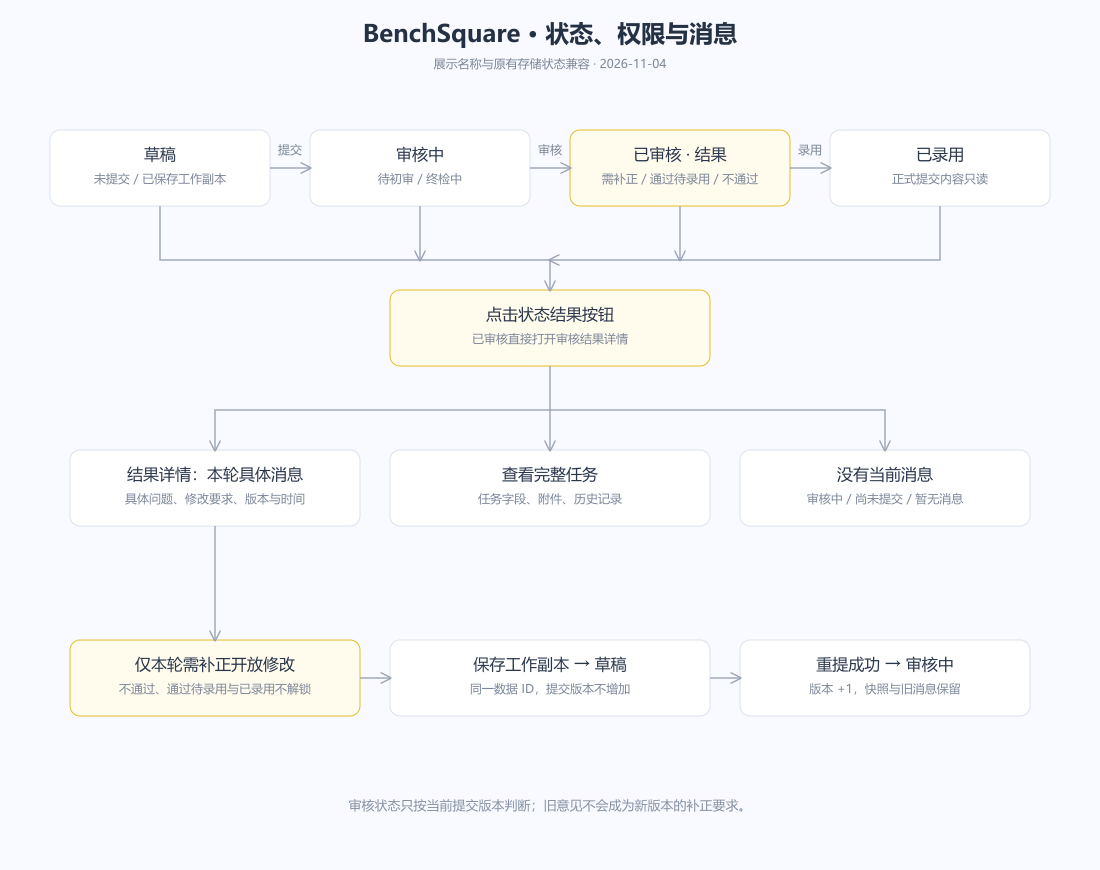
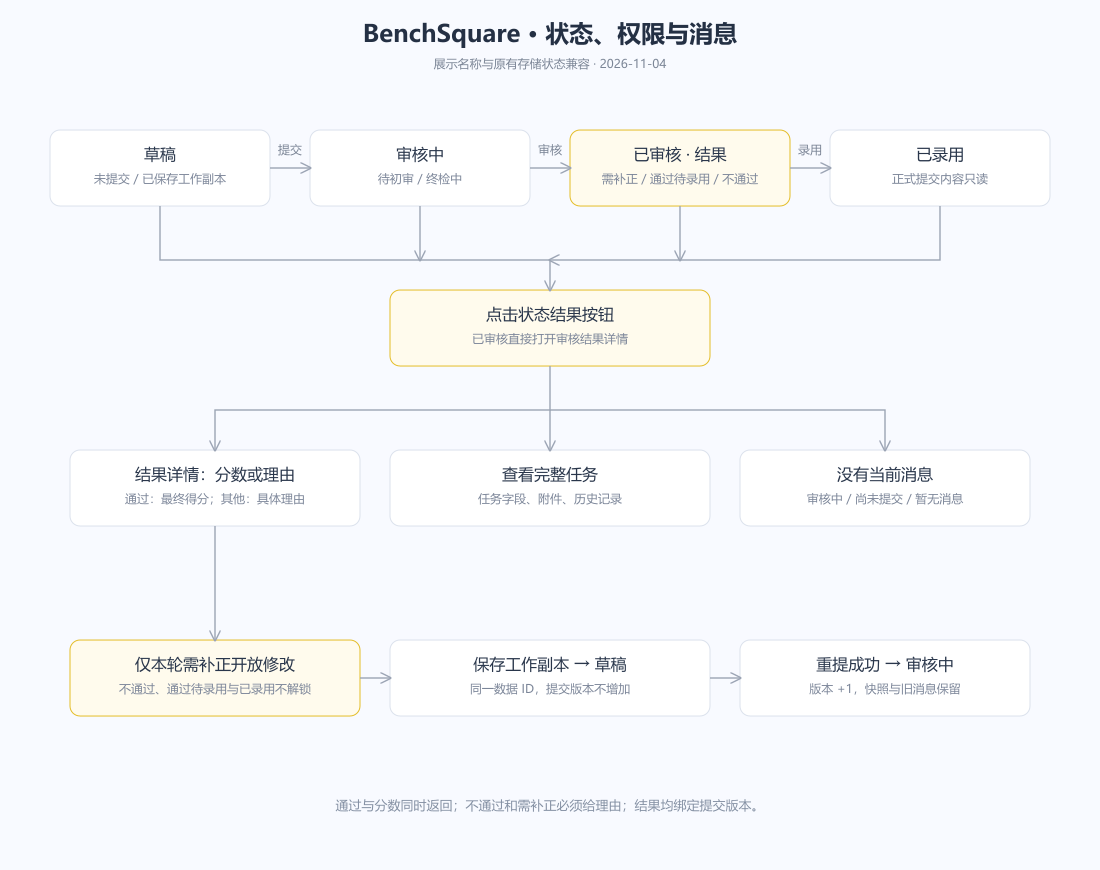
Return final scores on approval and reasons on rejection or correction

Changed region(s): [[0.3091, 0.9, 0.68, 0.931], [0.1236, 0.5276, 0.2782, 0.5897]]

diff --git a/frontend/submission.js b/frontend/submission.js
@@ -66,7 +66,7 @@
   function list(){const records=store.records.filter(visible);return `<div class="breadcrumb">工作台 <span>/</span> ${recordLabel}</div><div class="page-heading"><div><span class="eyebrow">YOUR CONTRIBUTIONS</span><h1>${recordLabel}<span class="heading-dot">.</span></h1><p>每一个任务，都凝结着一份专业经验。</p></div>${btn('new','＋ 新建任务',true)}</div><div class="stats">${['全部任务','待初审','终检中','已通过'].map((s,i)=>`<div><span>${s}</span><strong>${i===0?records.length:records.filter(r=>S(r)===s).length}</strong></div>`).join('')}</div><div class="list-panel"><div class="list-toolbar"><h2>任务记录 <small>${records.length}</small></h2><label>状态 <select id="status-filter"><option>全部</option><option>草稿</option><option>待初审</option><option>终检中</option><option>需修改</option><option>已通过</option><option>未通过</option></select></label></div><div class="table-scroll"><table><thead><tr><th>任务名称</th><th>所属领域</th><th>更新时间（北京时间）</th><th>状态</th><th>操作</th></tr></thead><tbody id="record-rows"></tbody></table></div><div class="list-foot">提交后先进入人工初审，通过后进入终检；最终以平台确认结果为准。本地 Demo 不代表真实入库或审核。</div></div>`;}
   function rows(filter='全部'){const records=store.records.filter(visible).filter(r=>filter==='全部'||S(r)===filter).sort((a,b)=>b.updatedAt.localeCompare(a.updatedAt));$('#record-rows').innerHTML=records.length?records.map(r=>`<tr><td><a href="#detail/${E(r.id)}">${E(r.form.name||'未命名草稿')}</a><small>${E(r.number||'草稿 · '+r.id)}${r.revision?' · 第 '+r.revision+' 次提交':''}</small></td><td>${E(r.form.domain||'未填写')}</td><td>${date(r.updatedAt)}</td><td><span class="badge ${r.status==='草稿'?'draft':''}">${S(r)}</span>${r.draftForm?'<small>有修改草稿</small>':''}</td><td><a href="#detail/${E(r.id)}">查看详情 →</a></td></tr>`).join(''):`<tr><td colspan="5"><div class="empty-state"><span>▤</span><h3>${filter==='全部'?'还没有提交记录':'没有该状态的记录'}</h3><p>保存草稿或提交第一个任务，从这里继续。</p>${btn('new','开始填写任务',true)}</div></td></tr>`;}
   function detail(id){const r=store.records.find(r=>r.id===id&&visible(r));if(!r)return `<div class="empty-state"><h1>未找到本地记录</h1><a href="#list">返回我的提交</a></div>`;return `<div class="breadcrumb"><a href="#list">${recordLabel}</a><span>/</span> 任务详情</div><div class="page-heading"><div><span class="eyebrow">TASK DETAILS</span><h1>${E(r.form.name||'未命名草稿')}</h1><p>${E(r.number||'草稿 · '+r.id)} · 更新于 ${date(r.updatedAt)}</p></div>${!issue(false,r.id)&&editable(r)?btn('edit:'+r.id,S(r)==='草稿'?'继续编辑':r.draftForm?'继续修改草稿':'修改并重提'):''}</div><div class="detail-meta"><span class="badge ${r.status==='草稿'?'draft':''}">${dashboard?DataItems.label(r):r.status}</span><span>${dashboard&&!r.competitionId?'尚未向比赛提交':r.revision?'第 '+r.revision+' 次提交':'尚未提交'}</span><span>本地 Demo · 初审通过后进入终检</span></div>${M.unavailable(r.form,files).length?'<div class="warning">附件仅保留文件名等元信息，实际文件在当前会话不可用。修改重提时请重新选择或删除。</div>':''}${dashboard&&!r.competitionId?'<div class="warning">此记录尚未关联比赛，当前按草稿管理。旧版演示的编号和历史记录仅作留档，不代表已向比赛提交。请继续编辑，选择比赛后提交审核。</div>':''}${DataItems.locked(r)?'<div class="info">当前数据为只读状态，可查看详情、下载附件和查看历史记录；只有草稿或退回补正的数据可编辑。</div>':''}${reviewPanel(r)}<div class="detail-content">${preview(dashboard?DataItems.form(r):r.form)}</div>${r.history?.length?`<section class="history"><h3>本地提交历史</h3>${r.history.map(h=>`<p>第 ${h.revision} 次 · ${E(h.number)} · ${date(h.at)} · ${E(h.name)}${h.form?` <button class="btn" data-do="history:${E(r.id)}:${h.revision}">查看此版本</button>`:''}</p>`).join('')}</section>`:''}`;}
-  function reviewPanel(r){const stage=S(r),info=DataItems.reviewInfo(r),current=info.current;return '<section class="history review-panel" aria-label="审核消息"><h3>'+(['待初审','终检中'].includes(stage)?'审核中':'审核结果')+'</h3><p>提交保存 → 人工初审 → 终检 → 确认结果</p><div class="review-message '+(info.correction?'review-correction':'')+'"><h4>'+E(info.outcome)+'</h4><p class="review-message-meta">'+(r.revision?'提交版本 v'+r.revision:'尚未提交')+(current?' · '+E(current.by||'演示评审员')+' · '+date(current.at):'')+'</p><h4>'+(info.correction?'补正要求':'具体消息')+'</h4><p class="review-message-content">'+E(info.note||(stage==='草稿'?'尚未提交审核。':['待初审','终检中'].includes(stage)?'本轮审核正在进行，结果出具后将在此展示。':'暂无具体审核消息。'))+'</p>'+(info.correction?'<p>请按以上要求修改后重新提交；保存草稿不增加版本，重提后进入新一轮审核。</p>':'')+'</div>'+((r.reviews||[]).length?'<details class="review-records"><summary>历次审核记录（'+r.reviews.length+'）</summary>'+(r.reviews||[]).map(h=>'<p>第 '+h.revision+' 次提交 · '+E(h.from)+' → '+E(h.to)+' · '+E(h.by||'演示评审员')+' · '+date(h.at)+(h.revision!==r.revision||r.draftForm||(dashboard&&!r.competitionId)?' · 历史版本意见':' · 当前提交版本意见')+(h.note?' · '+E(h.note):'')+(h.score!==undefined?' · 得分 '+E(h.score):'')+'（本地模拟）</p>').join('')+'</details>':'')+(['待初审','终检中'].includes(stage)?'<details class="review-simulator"><summary>演示审核流程</summary><p>以下操作仅模拟状态，不代表真实审核权限、数据库入库或终检结果。</p><label for="review-note">问题、修改要求或不通过原因</label><textarea id="review-note" rows="3" placeholder="退回修改或不通过时必填"></textarea><div class="review-actions">'+(stage==='待初审'?btn('review:'+r.id+':initial','模拟初审通过 → 终检',true):btn('review:'+r.id+':pass','模拟终检通过',true))+btn('review:'+r.id+':revise','模拟需修改')+btn('review:'+r.id+':reject','模拟未通过')+'</div></details>':'')+'</section>';}
+  function reviewPanel(r){const stage=S(r),info=DataItems.reviewInfo(r),current=info.current;return '<section class="history review-panel" aria-label="审核消息"><h3>'+(['待初审','终检中'].includes(stage)?'审核中':'审核结果')+'</h3><p>提交保存 → 人工初审 → 终检 → 确认结果</p><div class="review-message '+(info.correction?'review-correction':'')+'"><h4>'+E(info.outcome)+'</h4><p class="review-message-meta">'+(r.revision?'提交版本 v'+r.revision:'尚未提交')+(current?' · '+E(current.by||'演示评审员')+' · '+date(current.at):'')+'</p>'+(info.passed?'<div class="review-final-score"><span>最终得分</span><strong>'+(info.score===null?'历史记录缺少得分':info.score.toFixed(2)+'<small>分</small>')+'</strong></div>':'<h4>'+(info.correction?'补正要求':info.rejected?'不通过原因':'具体消息')+'</h4><p class="review-message-content">'+E(info.note||(stage==='草稿'?'尚未提交审核。':['待初审','终检中'].includes(stage)?'本轮审核正在进行，结果出具后将在此展示。':'暂无具体审核消息。'))+'</p>')+''+(info.correction?'<p>请按以上要求修改后重新提交；保存草稿不增加版本，重提后进入新一轮审核。</p>':'')+'</div>'+((r.reviews||[]).length?'<details class="review-records"><summary>历次审核记录（'+r.reviews.length+'）</summary>'+(r.reviews||[]).map(h=>'<p>第 '+h.revision+' 次提交 · '+E(h.from)+' → '+E(h.to)+' · '+E(h.by||'演示评审员')+' · '+date(h.at)+(h.revision!==r.revision||r.draftForm||(dashboard&&!r.competitionId)?' · 历史版本意见':' · 当前提交版本意见')+(h.note?' · '+E(h.note):'')+(h.score!==undefined?' · 得分 '+E(h.score):'')+'（本地模拟）</p>').join('')+'</details>':'')+(['待初审','终检中'].includes(stage)?'<details class="review-simulator"><summary>演示审核流程</summary><p>以下操作仅模拟状态，不代表真实审核权限、数据库入库或终检结果。</p><label for="review-note">补正要求或不通过原因（退回时必填）</label><textarea id="review-note" rows="3" placeholder="退回修改或不通过时必填"></textarea>'+(stage==='终检中'?'<label for="review-score">通过时返回的最终得分</label><input id="review-score" type="number" min="0" step="0.01" placeholder="审核通过时必填，如 87.50">':'')+'<div class="review-actions">'+(stage==='待初审'?btn('review:'+r.id+':initial','模拟初审通过 → 终检',true):btn('review:'+r.id+':pass','模拟终检通过',true))+btn('review:'+r.id+':revise','模拟需修改')+btn('review:'+r.id+':reject','模拟未通过')+'</div></details>':'')+'</section>';}
   let stepFrame=0;
   function updateActiveStep(){
     const links=[...document.querySelectorAll('.step-sidebar [data-section]')];
@@ -116,8 +116,8 @@
       if(!r||scoped&&(x.user!==actor||!x.team||!x.registered))return notice('身份或任务归属已变化，请重新进入。');
       const from=S(r),to=({initial:'终检中',revise:'需修改',pass:'已通过',reject:'未通过'})[outcome];
       if(!to||!(['待初审','终检中'].includes(from))||outcome==='initial'&&from!=='待初审'||outcome==='pass'&&from!=='终检中')return notice('该版本当前不能执行此操作。');
-      const note=$('#review-note')?.value.trim()||'';if(['revise','reject'].includes(outcome)&&!note)return notice('请填写问题与修改要求或不通过原因。');
-      if(persist({...store,records:store.records.map(item=>item.id===id?{...item,status:to,updatedAt:new Date().toISOString(),reviewNote:note,reviews:[...(item.reviews||[]),{revision:r.revision,from,to,note,at:new Date().toISOString(),simulated:true}]}:item)})){render();notice('已模拟更新为'+to+'，不代表真实审核结论。');}
+      const note=$('#review-note')?.value.trim()||'',scoreText=$('#review-score')?.value.trim()||'',score=Number(scoreText);if(outcome==='pass'&&(!scoreText||!DataItems.validScore(score)))return notice('审核通过必须同时返回有效的最终得分。');if(['revise','reject'].includes(outcome)&&!note)return notice('请填写问题与修改要求或不通过原因。');
+      if(persist({...store,records:store.records.map(item=>item.id===id?{...item,status:to,updatedAt:new Date().toISOString(),reviewNote:note,reviews:[...(item.reviews||[]),{revision:r.revision,from,to,note,...(outcome==='pass'?{score}:{}),at:new Date().toISOString(),simulated:true}]}:item)})){render();notice('已模拟更新为'+to+'，不代表真实审核结论。');}
     }
   });
   document.addEventListener('dragover',e=>{const z=e.target.closest('.dropzone');if(z){e.preventDefault();z.classList.add('dragging');}});document.addEventListener('dragleave',e=>e.target.closest('.dropzone')?.classList.remove('dragging'));

diff --git a/frontend/data-dashboard.css b/frontend/data-dashboard.css
@@ -1,3 +1,5 @@
 .dd-page{padding-top:6px}.dd-page-heading{display:flex;justify-content:space-between;align-items:center;gap:24px;margin:12px 0 32px}.dd-eyebrow{font:10px/1.5 Arial,sans-serif;letter-spacing:2px;color:#9a7c22}.dd-page-heading h1{margin:9px 0 8px;font-size:32px;letter-spacing:-1px}.dd-page-heading p{margin:0;color:#7c8697;font-size:13px}.dd-heading-actions{display:flex;gap:10px}.dd-metrics{display:grid;grid-template-columns:repeat(4,minmax(0,1fr));gap:18px;margin-bottom:32px}.dd-metric{background:#fff;text-align:left;border:1px solid #e1e5ec;border-radius:14px;padding:22px 24px;cursor:pointer;transition:border-color .15s,transform .15s}.dd-metric:hover{border-color:#dfba41;transform:translateY(-2px)}.dd-metric>span{display:flex;align-items:center;gap:8px;font-size:12px;color:#677285}.dd-metric strong{display:block;font-size:36px;line-height:1.5;margin:8px 0;color:#172031;font-weight:600}.dd-metric small{font-size:11px;color:#8a92a0}.dd-state-dot{display:inline-block;width:7px;height:7px;border-radius:50%;background:#a7afbc}.dot-1{background:#ceab3f}.dot-2{background:#6491b2}.dot-3{background:#549780}.dd-controls{display:flex;align-items:center;gap:20px;padding-bottom:20px;border-bottom:1px solid #e6e9ef}.dd-controls p{color:#9099a7;font-size:11px;margin-left:auto}.dd-filters{display:flex;gap:10px;margin-top:20px;align-items:center}.dd-search{display:flex;align-items:center;gap:10px;border:1px solid #e0e5ec;border-radius:8px;padding:0 14px;background:#fff;flex:1}.dd-search>span{font-size:23px;color:#8b94a2}.dd-search input{width:100%;padding:12px 0;border:0;outline:none;background:transparent;font-size:12px}.dd-filters select{border:1px solid #e0e5ec;padding:12px;border-radius:8px;background:white;font-size:12px;max-width:210px;color:#606d80}.dd-text-button{border:0;background:transparent;color:#8c701c;font-size:11px;cursor:pointer;text-align:left;padding:4px 0}.dd-boundary{font-size:10px;color:#9199a7;margin:16px 0 24px;display:flex;gap:7px;align-items:center}.dd-boundary span{color:#b9a463}.dd-empty{text-align:center;padding:70px 20px;background:#fafbfc;border:1px dashed #dce1e8;border-radius:12px}.dd-empty>span{font-size:36px;color:#b6a476}.dd-empty h2{font-size:18px;color:#344052}.dd-empty p{font-size:12px;color:#8b95a3;margin-bottom:25px}.dd-group{border:1px solid #e2e6ed;border-radius:12px;margin-bottom:22px;overflow:hidden;background:#fff}.dd-group>summary{display:flex;align-items:center;gap:12px;cursor:pointer;list-style:none;padding:22px 24px;font-size:15px;font-weight:600}.dd-group>summary::-webkit-details-marker{display:none}.dd-group-icon{display:grid;place-items:center;background:#faf5e4;color:#9e822c;width:36px;height:36px;border-radius:9px;font-size:18px}.dd-group summary small{display:block;color:#929aa8;font-size:10px;font-weight:400;margin-top:4px}.dd-group-chevron{margin-left:auto;color:#9aa4b2}.dd-group:not([open]) .dd-group-chevron{transform:rotate(-90deg)}.dd-group-actions{display:flex;align-items:center;justify-content:space-between;padding:0 24px 18px;font-size:10px;color:#939ba7}.dd-table{width:100%;border-collapse:collapse;text-align:left;font-size:11px;table-layout:fixed}.dd-table th{padding:12px 18px;background:#f8f9fb;color:#929ba9;font-weight:400;font-size:10px}.dd-table th:first-child{width:26%}.dd-table th:nth-child(2){width:19%}.dd-table th:nth-child(3){width:19%}.dd-table th:last-child{width:12%}.dd-table td{padding:20px 18px;border-top:1px solid #edf0f4;vertical-align:middle;overflow-wrap:anywhere}.dd-record-title{border:0;background:none;color:#243044;font-size:12px;font-weight:600;cursor:pointer;padding:0;text-align:left;overflow-wrap:anywhere;line-height:1.6}.dd-record-title:hover{text-decoration:underline;color:#8f711b}.dd-row-meta{display:block;font-size:10px;color:#8c96a7;margin-top:6px;white-space:nowrap;overflow:hidden;text-overflow:ellipsis}.dd-status{display:inline-block;white-space:nowrap;font-size:10px;padding:5px 9px;border-radius:5px;background:#f0f2f6;color:#788293}.dd-status-1{background:#fff6db;color:#a18424}.dd-status-2{background:#eef4fa;color:#5b82a5}.dd-status-3{background:#eef6f2;color:#4b8971}.dd-board{display:grid;grid-template-columns:repeat(4,minmax(0,1fr));gap:16px;align-items:start}.dd-column{background:#f7f8fa;border:1px solid #edf0f4;border-radius:12px;padding:14px;min-height:260px}.dd-column>h2{display:flex;align-items:center;gap:7px;font-size:12px;margin:2px 1px 18px;font-weight:500}.dd-column>h2>span{margin-left:auto;color:#98a1af;font:11px Arial}.dd-task-card{background:white;border:1px solid #e3e7ed;border-radius:9px;padding:16px;margin-bottom:12px}.dd-card-top{display:flex;justify-content:space-between;gap:8px;margin-bottom:12px}.dd-card-domain{font-size:9px;color:#8c95a2;overflow:hidden;text-overflow:ellipsis;white-space:nowrap}.dd-example{font-size:9px;color:#b09d68;white-space:nowrap}.dd-task-card>p{font-size:11px;line-height:1.9;color:#7f8998;display:-webkit-box;-webkit-line-clamp:3;-webkit-box-orient:vertical;overflow:hidden;margin:10px 0 15px;white-space:pre-line}.dd-card-result{padding:10px;border-radius:6px;background:#fafaf7;font-size:10px;color:#798270}.dd-card-result small{display:block;font-size:9px;color:#a1a998;margin-top:4px}.dd-card-foot{display:flex;flex-direction:column;gap:7px;border-top:1px solid #f0f2f5;margin-top:14px;padding-top:12px;font-size:9px;color:#9aa3b0}.dd-task-card>.dd-text-button{margin-top:12px}.dd-column-empty{padding:30px 12px;text-align:center;color:#a0a9b6;font-size:11px}.dd-drawer-content{display:flex;flex-direction:column;flex:1;min-height:0}.dd-drawer-content iframe{min-height:0}.dd-picker{overflow:auto}.dd-picker-tabs{display:flex;justify-content:space-between;padding:20px 28px;border-bottom:1px solid #e6e9ed;font-size:12px}.dd-picker-body{padding:32px 28px}.dd-picker-body>h2{font-size:23px;margin:12px 0}.dd-picker-body>p{font-size:12px;color:#8791a1;line-height:1.9}.dd-picker-new{display:flex;width:100%;justify-content:space-between;align-items:center;border:1px dashed #d5c385;background:#fffdf5;padding:22px 18px;border-radius:10px;color:#7e651c;margin:25px 0;cursor:pointer;font-size:13px}.dd-picker-new span{font-size:10px;color:#ae9c65}.dd-picker-list>button{position:relative;text-align:left;display:block;width:100%;background:white;border:1px solid #e3e7ed;border-radius:9px;padding:20px 38px 20px 18px;margin-bottom:12px;cursor:pointer}.dd-picker-list strong{font-size:12px;overflow-wrap:anywhere;display:block}.dd-picker-list span{display:block;font-size:10px;color:#8c97a8;margin-top:8px}.dd-picker-list i{position:absolute;right:18px;top:25px;color:#9c8440;font-style:normal}.dd-picker-note{font-size:10px!important;padding-top:20px}.dd-edit-warning{background:#fff8e4;border:1px solid #eee2bc;border-radius:8px;padding:14px;font-size:11px;color:#937a34;margin-bottom:18px}.dd-association{border:1px solid #e3e7ed;border-radius:10px;padding:17px;margin-bottom:18px}.dd-association label{display:block;font-size:12px;font-weight:600;margin-bottom:10px}.dd-association select{width:100%;background:#fff;border:1px solid #dce2e8;border-radius:7px;padding:11px;font:inherit;font-size:12px}.dd-association p{font-size:10px;line-height:1.8;color:#8b96a5;margin-bottom:0}.dd-editor-tools{padding:0 0 18px;display:flex;justify-content:space-between;align-items:center;font-size:11px}.dd-file-download{border:0;background:none;font-size:10px;color:#977818;cursor:pointer;margin:4px 0;padding:0}
 
 .dd-review-button{--review-bg:#f0f7f3;--review-hover:#e4f1e9;--review-color:#408268;--review-muted:#7e9b8e;background:var(--review-bg);color:var(--review-color);border:0;border-radius:5px;cursor:pointer;font:inherit;font-size:10px;display:inline-flex;align-items:center;gap:0;padding:5px 9px;white-space:nowrap;text-align:left;line-height:1.65;transition:background .15s,box-shadow .15s}.dd-review-needs.dd-review-button{--review-bg:#fcf7e9;--review-hover:#f7edcf;--review-color:#9a7620;--review-muted:#ad9a69}.dd-review-rejected.dd-review-button{--review-bg:#fcf0ef;--review-hover:#f8e3e1;--review-color:#b06962;--review-muted:#b99793}.dd-review-button:hover{background:var(--review-hover);box-shadow:0 2px 7px #24304408}.dd-review-button:focus-visible{outline:2px solid var(--review-color);outline-offset:3px}.dd-review-prefix{color:var(--review-muted);font-size:10px;margin-right:5px;font-weight:400}.dd-review-verdict{font-weight:500;letter-spacing:.1px}.dd-review-chevron{width:10px;height:10px;margin-left:5px;fill:none;stroke:currentColor;stroke-width:1.5;stroke-linecap:round;stroke-linejoin:round;opacity:.55;transition:opacity .15s,transform .15s}.dd-review-button:hover .dd-review-chevron{opacity:1;transform:translateX(1px)}.dd-review-detail{padding:28px;overflow:auto;display:block}.dd-review-task h3{font-size:21px;overflow-wrap:anywhere;margin:10px 0}.dd-review-task>p{color:#8b94a2;font-size:12px}.dd-review-message{background:#f7faff;border:1px solid #dfe7f1;border-radius:12px;padding:24px;margin:24px 0}.dd-review-correction{background:#fffbed;border-color:#ead794}.dd-review-message h3{font-size:17px;margin:0 0 12px}.dd-review-meta{color:#8992a0;font-size:11px;line-height:1.8}.dd-review-message h4{font-size:13px;margin:24px 0 10px}.dd-review-content{white-space:pre-wrap;overflow-wrap:anywhere;font-size:14px;line-height:1.9;color:#263447}.dd-review-message>p:last-child,.dd-review-outcome{font-size:12px;color:#807a64;line-height:1.9}.dd-review-actions{display:flex;flex-wrap:wrap;gap:12px}.dd-review-note{margin-top:24px;color:#969eaa;font-size:10px}
+
+.dd-final-score{margin:24px 0 8px}.dd-final-score>span{display:block;font-size:12px;color:#7b8797;margin-bottom:10px}.dd-final-score strong{font-size:42px;line-height:1.3;font-weight:600;letter-spacing:-1px;color:#263f34;font-variant-numeric:tabular-nums}.dd-final-score small{font-size:13px;font-weight:400;letter-spacing:0;margin-left:8px;color:#7d8d84}

diff --git a/frontend/data-dashboard.js b/frontend/data-dashboard.js
@@ -6,7 +6,7 @@
  const competitions=()=>all().map(c=>({...c,title:c.title||c.values?.name||c.id}));
  const title=id=>competitions().find(c=>c.id===id)?.title||(id?'原赛事（当前不可用）':'未关联比赛');
  const date=s=>s?new Date(s).toLocaleString('zh-CN',{timeZone:'Asia/Shanghai',hour12:false,month:'2-digit',day:'2-digit',hour:'2-digit',minute:'2-digit'}):'—';
- function records(){try{readError='';return D.list(D.read(),user(),state);}catch(e){readError=e.message;return [];}}
+ function records(){try{readError='';const store=D.read();if(DataMocks.upgradeScores(store,user()))localStorage.setItem(D.key,JSON.stringify(store));return D.list(store,user(),state);}catch(e){readError=e.message;return [];}}
  function badge(r){if(D.status(r)!=='已审核')return '<span class="dd-status dd-status-'+D.statuses.indexOf(D.status(r))+'">'+D.label(r)+'</span>';const label=D.reviewLabel(r),outcome=label.slice('已审核 · '.length),tone=D.reviewInfo(r).correction?'needs':outcome.includes('不通过')?'rejected':'passed';return '<button type="button" class="dd-status dd-status-2 dd-review-button dd-review-'+tone+'" data-data="review" data-id="'+E(r.id)+'" aria-label="'+E(label+'，查看结果详情')+'"><span class="dd-review-prefix">已审核 · </span><span class="dd-review-verdict">'+E(outcome)+'</span><svg class="dd-review-chevron" aria-hidden="true" viewBox="0 0 16 16"><path d="m6 4 4 4-4 4"/></svg></button>';}
  function row(r){const f=D.form(r);return `<tr><td><button class="dd-record-title" data-data="detail" data-id="${E(r.id)}">${E(f.name||'未命名草稿')}</button><span class="dd-row-meta">${E(f.domain||'领域待补充')}${r.mock?' · 合成示例':''}</span></td><td>${badge(r)}</td><td><span>${E((f.os||[]).join(' / ')||'—')}</span><span class="dd-row-meta">${E(f.software||'环境待补充')}</span></td><td><span>${r.revision?'v'+r.revision:'尚未提交'}</span></td><td><span>${date(r.updatedAt)}</span></td><td><button class="dd-text-button" data-data="detail" data-id="${E(r.id)}">查看详情 →</button></td></tr>`;}
  function results(){const own=records(),list=D.filter(own,filters,competitions());const target=document.querySelector('#dd-results');if(!target)return;
@@ -20,7 +20,7 @@
  function requestClose(){const iframe=overlay?.querySelector('iframe');if(iframe)iframe.contentWindow.postMessage({type:'submission-close-request'},location.origin);else {const destination=pendingDestination;pendingDestination='';closeOverlay();if(destination)location.hash=destination;}}
  function makeOverlay(cid){if(overlay){const content=overlay.querySelector('.dd-drawer-content');if(content)content.remove();return;}originFocus=document.activeElement;overflow=document.body.style.overflow;background=[...document.body.children].filter(el=>!['SCRIPT','STYLE'].includes(el.tagName)).map(el=>[el,el.inert]);background.forEach(([el])=>el.inert=true);overlay=document.createElement('div');overlay.className='submission-overlay dd-overlay';overlay.innerHTML=`<div class="submission-shade" data-dd-close></div><section class="submission-drawer" role="dialog" aria-modal="true" aria-labelledby="submission-drawer-title"><header class="submission-drawer-header"><div><span>个人数据与提交</span><h2 id="submission-drawer-title">${E(cid?title(cid):'个人数据')}</h2></div><button class="submission-drawer-close" aria-label="关闭提交面板" data-dd-close>×</button></header></section>`;document.body.append(overlay);document.body.style.overflow='hidden';overlay.querySelector('.submission-drawer-close').focus();overlay.addEventListener('click',e=>{if(e.target.closest('[data-dd-close]'))requestClose();});}
  function openEditor({id='',cid='',detail=false}={}){if(id&&!records().some(r=>r.id===id)){toast('当前身份无权访问这条记录。');return;}makeOverlay(cid);overlay.querySelector('.dd-picker')?.remove();overlay.querySelector('#submission-drawer-title').textContent=cid?title(cid):'个人数据';const content=document.createElement('div');content.className='dd-drawer-content';const params=new URLSearchParams({dashboard:'1',embed:'1',fresh:crypto.randomUUID()});if(id)params.set('item',id);if(cid)params.set('competition',cid);content.innerHTML='<iframe title="比赛数据提交表单" src="submission.html?'+params.toString()+'#'+(detail?'detail/'+encodeURIComponent(id):'new')+'"></iframe>';overlay.querySelector('section').append(content);}
- function openReview(r){const info=D.reviewInfo(r),current=info.current;makeOverlay(r.competitionId||'');overlay.querySelector('#submission-drawer-title').textContent='审核结果详情';const content=document.createElement('div');content.className='dd-drawer-content dd-review-detail';content.innerHTML=`<div class="dd-review-task"><span class="dd-eyebrow">REVIEW RESULT</span><h3>${E(D.form(r).name||'未命名任务')}</h3><p>${E(title(r.competitionId))}</p></div><div class="dd-review-message ${info.correction?'dd-review-correction':''}"><h3>${E(D.reviewLabel(r))}</h3><p class="dd-review-meta">提交版本 v${E(r.revision||1)}${current?' · '+E(current.by||'演示评审员')+' · '+E(date(current.at)):''}</p><h4>${info.correction?'补正要求':'具体消息'}</h4><p class="dd-review-content">${E(info.note||'暂无具体审核消息。')}</p>${info.outcome!==D.reviewLabel(r).split(' · ').slice(1).join(' · ')?'<p class="dd-review-outcome">'+E(info.outcome)+'</p>':''}${info.correction?'<p>请按以上要求修改后重新提交；保存草稿不增加版本，重提后进入新一轮审核。</p>':''}</div><div class="dd-review-actions">${info.correction?'<button class="button dark" data-data="edit" data-id="'+E(r.id)+'">'+(r.draftForm?'继续修改草稿':'修改并重提')+' →</button>':''}<button class="button" data-data="detail" data-id="${E(r.id)}">查看完整任务</button></div><p class="dd-review-note">本地 Demo：示例审核与录用为模拟结果。</p>`;overlay.querySelector('section').append(content);}
+ function openReview(r){const info=D.reviewInfo(r),current=info.current;makeOverlay(r.competitionId||'');overlay.querySelector('#submission-drawer-title').textContent='审核结果详情';const content=document.createElement('div');content.className='dd-drawer-content dd-review-detail';content.innerHTML=`<div class="dd-review-task"><span class="dd-eyebrow">REVIEW RESULT</span><h3>${E(D.form(r).name||'未命名任务')}</h3><p>${E(title(r.competitionId))}</p></div><div class="dd-review-message ${info.correction?'dd-review-correction':''}"><h3>${E(D.reviewLabel(r))}</h3><p class="dd-review-meta">提交版本 v${E(r.revision||1)}${current?' · '+E(current.by||'演示评审员')+' · '+E(date(current.at)):''}</p>${info.passed?'<div class="dd-final-score"><span>最终得分</span><strong>'+(info.score===null?'历史记录缺少得分':info.score.toFixed(2)+'<small>分</small>')+'</strong></div>':'<h4>'+(info.correction?'补正要求':info.rejected?'不通过原因':'具体消息')+'</h4><p class="dd-review-content">'+E(info.note||'暂无具体审核消息。')+'</p>'}${info.outcome!==D.reviewLabel(r).split(' · ').slice(1).join(' · ')?'<p class="dd-review-outcome">'+E(info.outcome)+'</p>':''}${info.correction?'<p>请按以上要求修改后重新提交；保存草稿不增加版本，重提后进入新一轮审核。</p>':''}</div><div class="dd-review-actions">${info.correction?'<button class="button dark" data-data="edit" data-id="'+E(r.id)+'">'+(r.draftForm?'继续修改草稿':'修改并重提')+' →</button>':''}<button class="button" data-data="detail" data-id="${E(r.id)}">查看完整任务</button></div><p class="dd-review-note">本地 Demo：示例审核与录用为模拟结果。</p>`;overlay.querySelector('section').append(content);}
  function openCompetition(cid){makeOverlay(cid);const own=records(),drafts=D.drafts(own,cid);const content=document.createElement('div');content.className='dd-drawer-content dd-picker';content.innerHTML=`<div class="dd-picker-tabs"><strong>提交数据</strong></div><div class="dd-picker-body"><span class="dd-eyebrow">CONTINUE YOUR WORK</span><h2>从草稿中选择</h2><p>只展示本比赛与未关联比赛的个人草稿。选择后核对内容，保存或提交时才关联本赛事。</p><button class="dd-picker-new" data-dd-new>＋ 新建数据任务 <span>从空白开始 →</span></button><div class="dd-picker-list">${drafts.length?drafts.map(r=>`<button data-dd-draft="${E(r.id)}"><strong>${E(D.form(r).name||'未命名草稿')}</strong><span>${E(r.competitionId?'本比赛草稿':'通用草稿')} · ${date(r.updatedAt)}${r.mock?' · 合成示例':''}</span><i>→</i></button>`).join(''):'<div class="dd-column-empty">还没有适用草稿，可以新建数据任务。</div>'}</div><p class="dd-picker-note">草稿保存不受组队或提交截止限制；正式提交时重新检查参赛资格和赛程。</p></div>`;overlay.querySelector('section').append(content);content.querySelector('[data-dd-new]').onclick=()=>openEditor({cid});content.querySelectorAll('[data-dd-draft]').forEach(b=>b.onclick=()=>openEditor({id:b.dataset.ddDraft,cid}));}
  const oldRender=render;render=function(){oldRender();if(location.hash!=='#data-dashboard')return;document.body.classList.remove('portal-page');document.querySelector('#main').innerHTML=dashboard();document.title='个人数据看板 · benchsquare';document.querySelectorAll('[data-nav]').forEach(a=>a.classList.toggle('active',a.dataset.nav==='data-dashboard'));results();};
  document.addEventListener('input',e=>{if(e.target.id==='dd-search'){filters.search=e.target.value;results();}});

diff --git a/frontend/data-items.js b/frontend/data-items.js
@@ -13,12 +13,15 @@
   function drafts(records,cid){return records.filter(r=>status(r)==='草稿'&&(!r.competitionId||r.competitionId===cid));}
   function result(r){const s=status(r);if(!r.competitionId)return '未关联比赛 · 关联后可提交';if(s==='草稿')return r.revision?'修改草稿 · 原提交与审核记录保留':'尚未提交';if(s==='审核中')return r.status==='终检中'?'初审通过 · 终检中':'已提交，审核中';return r.reviewOutcome||({'已通过':'已录用','需修改':'需补正','未通过':'审核不通过'})[r.status]||'审核通过 · 待录用';}
   const label=r=>(typeof r==='string'?r:status(r))==='已审核'?'审核结果':(typeof r==='string'?r:status(r));
+  const validScore=value=>typeof value==='number'&&Number.isFinite(value)&&value>=0;
   function reviewInfo(r){
     const current=(r.reviews||[]).filter(h=>h.revision===r.revision).at(-1);
     const legacy=!(r.reviews||[]).length&&r.competitionId&&['已审核','需修改','未通过','已通过','已录用'].includes(r.status);
     const correction=!!r.competitionId&&!locked(r)&&(current?.to==='需修改'||(!current&&legacy&&(r.status==='需修改'||r.reviewOutcome==='需补正')));
-    return {current,correction,note:current?.note||(legacy?r.reviewNote||'':''),outcome:correction?'需补正':result(r)};
+    const passed=!!r.competitionId&&(current?['已审核','已通过','已录用'].includes(current.to):legacy&&!correction&&(r.reviewOutcome?.startsWith('审核通过')||['已通过','已录用'].includes(r.status)));
+    const rejected=current?.to==='未通过'||legacy&&(r.status==='未通过'||r.reviewOutcome==='审核不通过');
+    return {current,correction,passed,rejected,score:passed&&validScore(current?.score)?current.score:null,note:current?.note||(legacy?r.reviewNote||'':''),outcome:correction?'需补正':result(r)};
   }
   const reviewLabel=r=>'已审核 · '+reviewInfo(r).outcome.split(' · ')[0];
-  const api={key,statuses,owner,status,label,reviewInfo,reviewLabel,locked,form,read,list,filter,drafts,result};if(typeof module!=='undefined')module.exports=api;else root.DataItems=api;
+  const api={key,statuses,owner,status,label,reviewInfo,reviewLabel,validScore,locked,form,read,list,filter,drafts,result};if(typeof module!=='undefined')module.exports=api;else root.DataItems=api;
 })(typeof window==='undefined'?globalThis:window);

diff --git a/frontend/data-mocks.js b/frontend/data-mocks.js
@@ -13,8 +13,10 @@
     const at=new Date(Date.UTC(2026,9,15+i,2,30)).toISOString(),revision=[2,5,11].includes(i)?(i===2?1:2):status==='草稿'?0:1;
     const review=(v,note,to)=>({revision:v,from:'待初审',to,note,at,by:'演示评审员',simulated:true});
     const reviews=[];if(i===2||i===5||i===11)reviews.push(review(1,'请补充边界条件及单位换算依据。','需修改'));if(i>=6&&i!==11)reviews.push(review(revision,i===6?'依赖版本与复现命令缺失，请补充最小复现和回归测试。':i===7?'图表单位换算错误，缺失值处理没有说明。':'任务与验证标准完整，'+(i===8?'审核通过，等待赛事确认录用。':'已确认录用该版本。'),i===6?'需修改':i===7?'未通过':i===8?'已审核':'已通过'));if(i===11)reviews.push(review(2,'补正内容完整，已确认 v2 录用；v1 意见保留。','已通过'));
+    if(i>=8){const latest=reviews.at(-1);latest.score=({8:87.5,9:91.25,10:89,11:94.75})[i];}
     const r={id:'personal-demo-'+user+'-'+i,ownerId:user,updatedBy:user,competitionId:cid||undefined,teamId:cid?'mock-team-'+cid+'-'+user:undefined,form,status,reviewOutcome:outcome,mock:true,createdAt:at,updatedAt:at,revision,number:revision?'BS-DEMO-'+String(i+1).padStart(3,'0'):undefined,history:Array.from({length:revision},(_,n)=>({revision:n+1,number:'BS-DEMO-'+String(i+1).padStart(3,'0'),at,by:user,name,form:JSON.parse(JSON.stringify({...form,verification:n===0&&revision===2?'首版验证标准（历史示例）':form.verification}))})),reviews,reviewNote:reviews.at(-1)?.note||''};
     if(i===2){r.status='需修改';r.draftForm=JSON.parse(JSON.stringify(form));}return r;
   });}
-  const api={generate};if(typeof module!=='undefined')module.exports=api;else root.DataMocks=api;
+  function upgradeScores(store,user){const seeds=new Map(generate(user).map(r=>[r.id,r]));let changed=false;for(const r of store.records){const seed=r.mock&&seeds.get(r.id);if(!seed)continue;for(const h of r.reviews||[]){const original=seed.reviews.find(v=>v.revision===h.revision&&v.to===h.to&&v.at===h.at&&v.note===h.note);if(h.score===undefined&&original?.score!==undefined){h.score=original.score;changed=true;}}}return changed;}
+  const api={generate,upgradeScores};if(typeof module!=='undefined')module.exports=api;else root.DataMocks=api;
 })(typeof window==='undefined'?globalThis:window);

diff --git a/frontend/submission.css b/frontend/submission.css
@@ -5,3 +5,5 @@
 .review-simulator{margin-top:20px;border:1px dashed #d9d0aa;border-radius:10px;padding:18px}.review-simulator summary{cursor:pointer;font-weight:600}.review-simulator textarea{display:block;width:100%;margin:10px 0;border:1px solid #ddd;padding:12px}.review-actions{display:flex;gap:10px;flex-wrap:wrap}
 
 .review-message{border:1px solid #e0e5ec;border-radius:10px;background:#f8fafc;padding:18px 20px;margin:16px 0}.review-message h4{margin:0 0 10px}.review-message .review-message-meta{font-size:11px;color:#8992a0;margin-bottom:18px}.review-message-content{white-space:pre-wrap;overflow-wrap:anywhere;line-height:1.9}.review-correction{border-color:#ead794;background:#fffbed}.review-records{margin:20px 0}.review-records summary{cursor:pointer;font-weight:600}
+
+.review-final-score{margin:22px 0 8px}.review-final-score>span{display:block;font-size:12px;color:#7b8797;margin-bottom:9px}.review-final-score strong{font-size:38px;line-height:1.4;color:#263f34;font-variant-numeric:tabular-nums}.review-final-score small{font-size:13px;margin-left:8px;font-weight:400;color:#7d8d84}.review-simulator input[type=number]{display:block;width:100%;margin:10px 0 20px;padding:12px;border:1px solid #ddd}

diff --git a/docs/submission/personal-dashboard.md b/docs/submission/personal-dashboard.md
@@ -1,6 +1,6 @@
 # 个人数据看板：状态与审核消息
 
-版本：v2.2｜更新日期：2026-11-04
+版本：v2.3｜更新日期：2026-11-04
 
 对应[飞书个人数据看板 PRD](https://xcnhc87xvcni.feishu.cn/wiki/KuP4wFgtdifEhUkh9fNc6U4Lngg)。本文件记录本次列表与详情调整，其他业务规则沿用在线 PRD。
 
@@ -10,13 +10,19 @@
 
 当前状态列保留草稿、审核中、已录用。已审核记录显示可点击按钮：“已审核 · 需补正”“已审核 · 审核通过”“已审核 · 审核不通过”。点击直接打开“审核结果详情”，展示本轮具体消息、版本、处理人和时间；需补正时可点击修改并重提，也可查看完整任务。顶部统计和筛选仍归入审核结果分类，原存储状态与历史记录保留。
 
-详情顶部展示当前提交版本的审核消息，包括结论、具体内容、提交版本，以及已有的处理人和时间。需补正时突出完整问题和修改要求，长文本换行展示，不能在列表用截断摘要替代。没有本轮结果时显示审核正在进行；没有消息时明确显示占位，不编造补正要求。
+详情顶部展示当前提交版本的结果：通过展示最终得分，不通过及需补正展示理由，另保留提交版本及已有的处理人、时间。需补正时突出完整问题和修改要求，长文本换行展示，不能在列表用截断摘要替代。没有本轮结果时显示审核正在进行；没有消息时明确显示占位，不编造补正要求。
 
 草稿详情提供“继续编辑”；本轮需补正记录提供“修改并重提”，已有工作副本可继续修改。审核中、通过待录用、审核不通过、已录用保持只读。旧版本补正意见不能解锁新一轮审核中的记录。
 
 历次审核记录独立折叠展示，保留版本、结论、意见、处理人和时间。保存工作副本不增加提交版本，正式重提成功才增加版本并生成快照。
 
 状态按钮采用与草稿、审核中、已录用一致的紧凑矩形标签，统一边角、内边距和高度；保留结果颜色及点击查看结果入口。
+
+## 审核通过给分，退回给理由
+
+审核通过时必须同时返回最终得分，详情以两位小数展示，不设置待评分阶段，也不强制填写通过理由。审核不通过必须返回具体原因；需补正必须返回问题和修改要求。分数与理由绑定本次提交版本，重提后不沿用旧版本得分，历史记录继续保留。零分是有效分数，缺失分数不能当作零分。
+
+![通过展示最终得分](./dashboard-status-passed.png)
 
 ## 当前状态结果入口
 

diff --git a/frontend/README.md b/frontend/README.md
@@ -105,3 +105,5 @@
 2026-11-03：列表删除“最近审核与反馈”列，展示“草稿、审核中、审核结果、已录用”。各状态统一进入“查看详情”，详情顶部展示本轮具体审核消息与补正要求，再按权限进入编辑；历史意见单独折叠。PRD 与原型见 [个人数据看板调整](../docs/submission/personal-dashboard.md)。
 
 2026-11-04：当前状态中的已审核记录改为“已审核 · 需补正/审核通过/审核不通过”按钮，点击直达审核结果详情及具体消息；仅本轮需补正提供修改入口。
+
+2026-11-04：审核通过必须同时返回最终得分，结果详情显示分数；不通过和需补正必须返回理由。得分写入对应提交版本的审核记录，重提不沿用旧分数。
